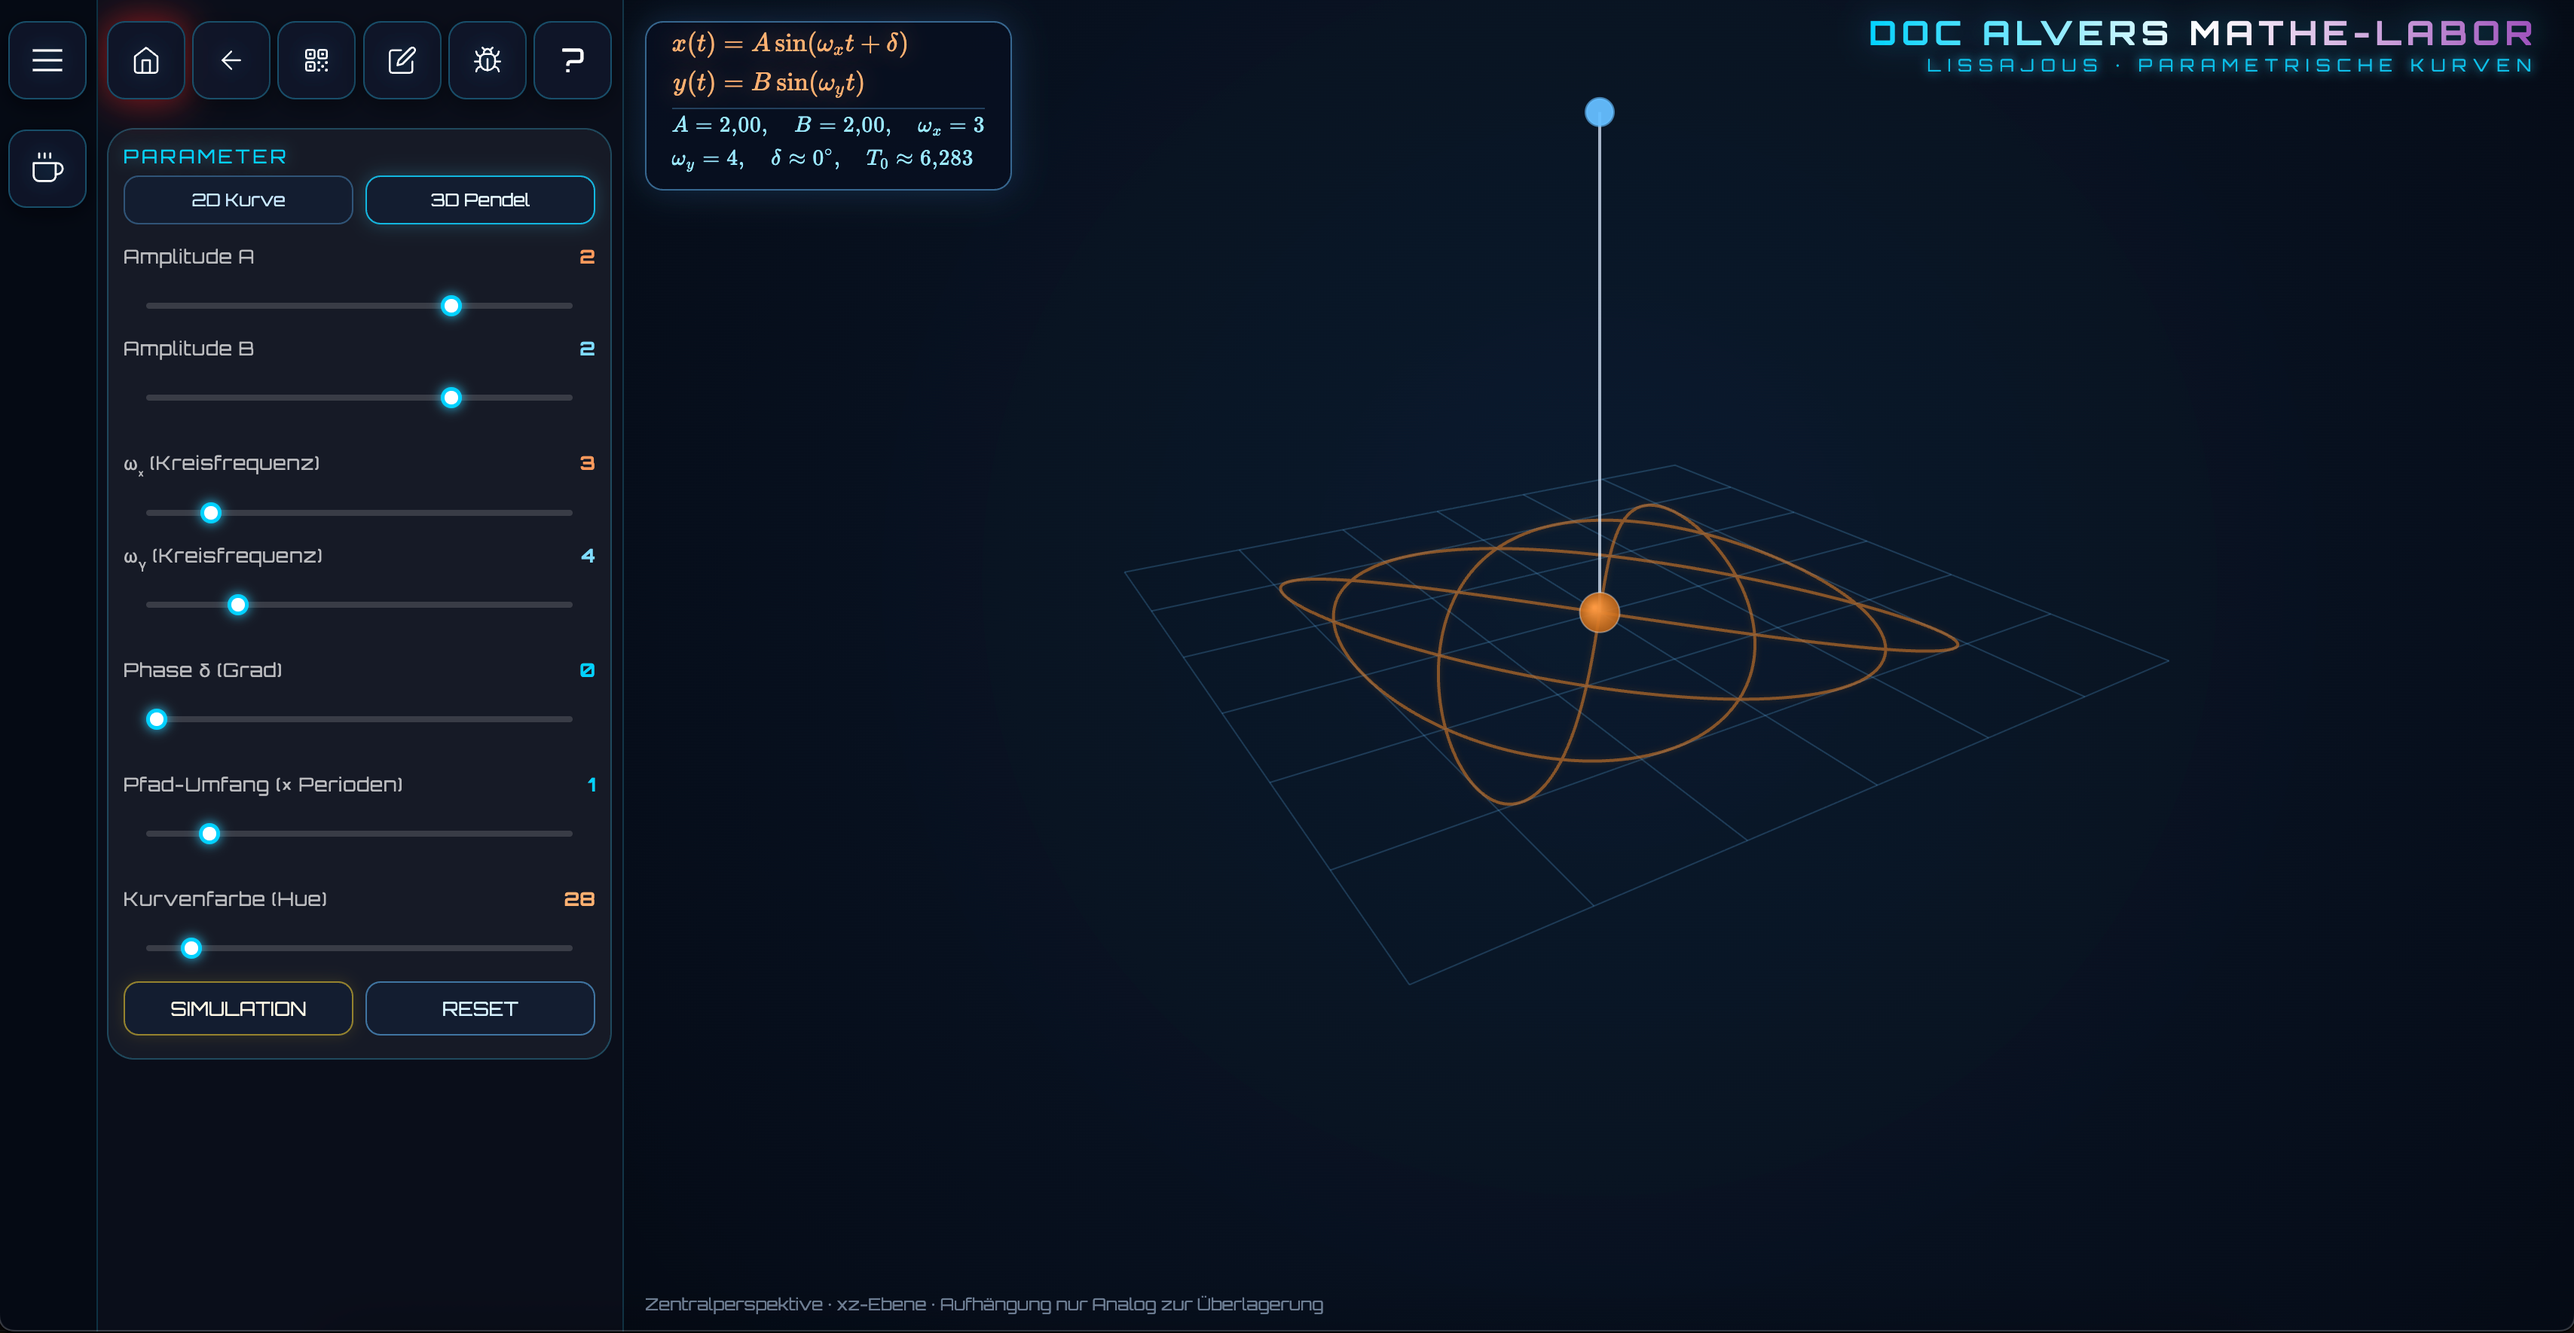
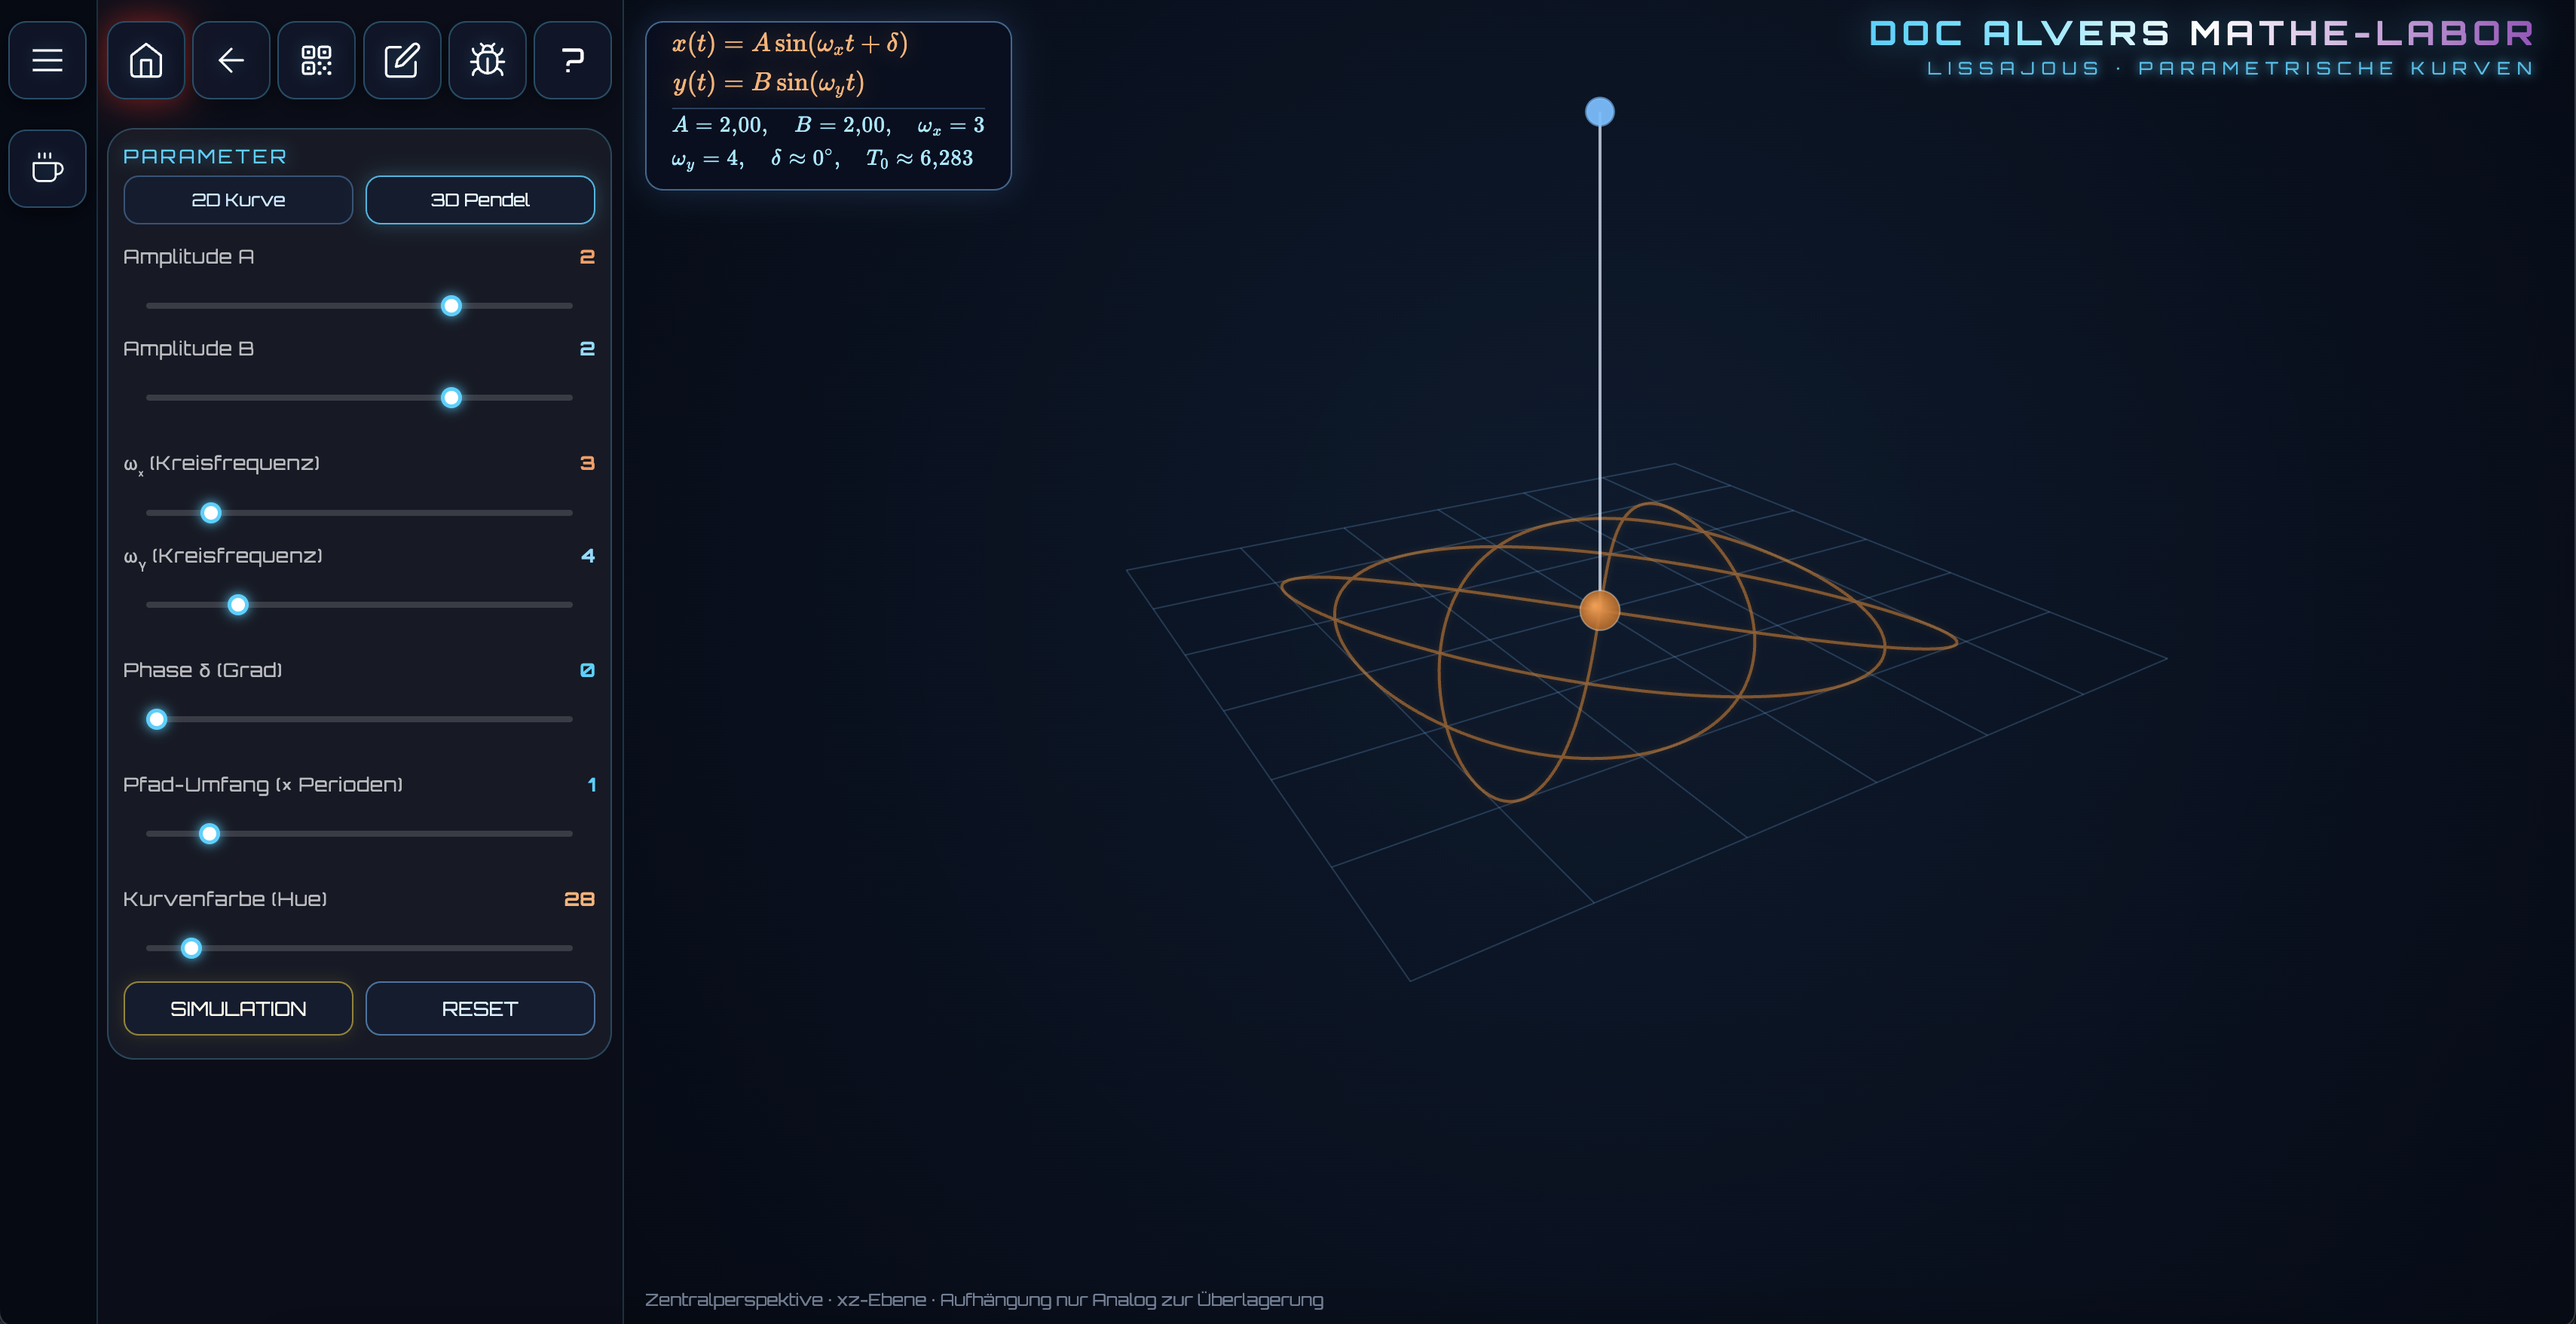
universe

diff --git a/universe.html b/universe.html
@@ -260,7 +260,9 @@
             { href: 'addition.html', file: 'addition.png', label: 'ADDITION' },
             { href: 'subtraktion.html', file: 'subtraktion.png', label: 'SUBTRAKTION' },
             { href: 'multiplikation.html', file: 'multiplikation.png', label: 'MULTIPLIKATION' },
-            { href: 'dividieren.html', file: 'dividieren.png', label: 'DIVISION' }
+            { href: 'dividieren.html', file: 'dividieren.png', label: 'DIVISION' },
+            { href: 'winkelpuzzle.html', file: 'winkelpuzzle.png', label: 'WINKEL-PUZZLE' },
+            { href: 'coordinatensystemtester.html', file: 'coordinatensystemtester.png', label: 'KOORDINATENSYSTEM' }
         ];
         let universeAnimPaused = false;
         let universeFocusedObj = null;

diff --git a/check_universe.py b/check_universe.py
@@ -1,0 +1,30 @@
+import re
+
+with open('js/labs-config.js', 'r') as f:
+    config_content = f.read()
+
+match = re.search(r'const\s+LABS_DATA\s*=\s*(\[.*?\]);', config_content, re.DOTALL)
+if match:
+    labs_data_str = match.group(1)
+    hrefs_config = re.findall(r'"href":\s*[\'"]([^\'"]+)[\'"]', labs_data_str)
+    labels_config = re.findall(r'"title":\s*[\'"]([^\'"]+)[\'"]', labs_data_str)
+    print("Found", len(hrefs_config), "in config")
+    config_labs = [{'href': h, 'label': l} for h, l in zip(hrefs_config, labels_config)]
+else:
+    config_labs = []
+
+with open('universe.html', 'r') as f:
+    universe_content = f.read()
+
+match_u = re.search(r'const\s+UNIVERSE_LABS\s*=\s*(\[.*?\]);', universe_content, re.DOTALL)
+if match_u:
+    universe_str = match_u.group(1)
+    hrefs_universe = re.findall(r'href:\s*[\'"]([^\'"]+)[\'"]', universe_str)
+    print("Found", len(hrefs_universe), "in universe")
+else:
+    hrefs_universe = []
+
+missing = [l for l in config_labs if l['href'] not in hrefs_universe]
+print('Missing in universe.html:')
+for m in missing:
+    print(m)

diff --git a/check_screenshots.py b/check_screenshots.py
@@ -1,0 +1,24 @@
+import re
+import os
+
+with open('universe.html', 'r') as f:
+    universe_content = f.read()
+
+match_u = re.search(r'const\s+UNIVERSE_LABS\s*=\s*(\[.*?\]);', universe_content, re.DOTALL)
+if match_u:
+    universe_str = match_u.group(1)
+    files_universe = set(re.findall(r'file:\s*[\'"]([^\'"]+)[\'"]', universe_str))
+else:
+    files_universe = set()
+
+screenshots = set([f for f in os.listdir('resources/screenshots') if f.endswith('.png')])
+
+missing_in_universe = screenshots - files_universe
+print("Screenshots not in universe.html:")
+for m in sorted(missing_in_universe):
+    print(m)
+
+missing_on_disk = files_universe - screenshots
+print("\nIn universe.html but missing on disk:")
+for m in sorted(missing_on_disk):
+    print(m)

diff --git a/check_htmls.py b/check_htmls.py
@@ -1,0 +1,19 @@
+import os
+import re
+
+html_files = set([f for f in os.listdir('.') if f.endswith('.html')])
+
+with open('universe.html', 'r') as f:
+    universe_content = f.read()
+
+match_u = re.search(r'const\s+UNIVERSE_LABS\s*=\s*(\[.*?\]);', universe_content, re.DOTALL)
+if match_u:
+    universe_str = match_u.group(1)
+    hrefs_universe = set(re.findall(r'href:\s*[\'"]([^\'"]+)[\'"]', universe_str))
+else:
+    hrefs_universe = set()
+
+missing = html_files - hrefs_universe
+print("HTML files not in universe.html:")
+for m in sorted(missing):
+    print(m)
